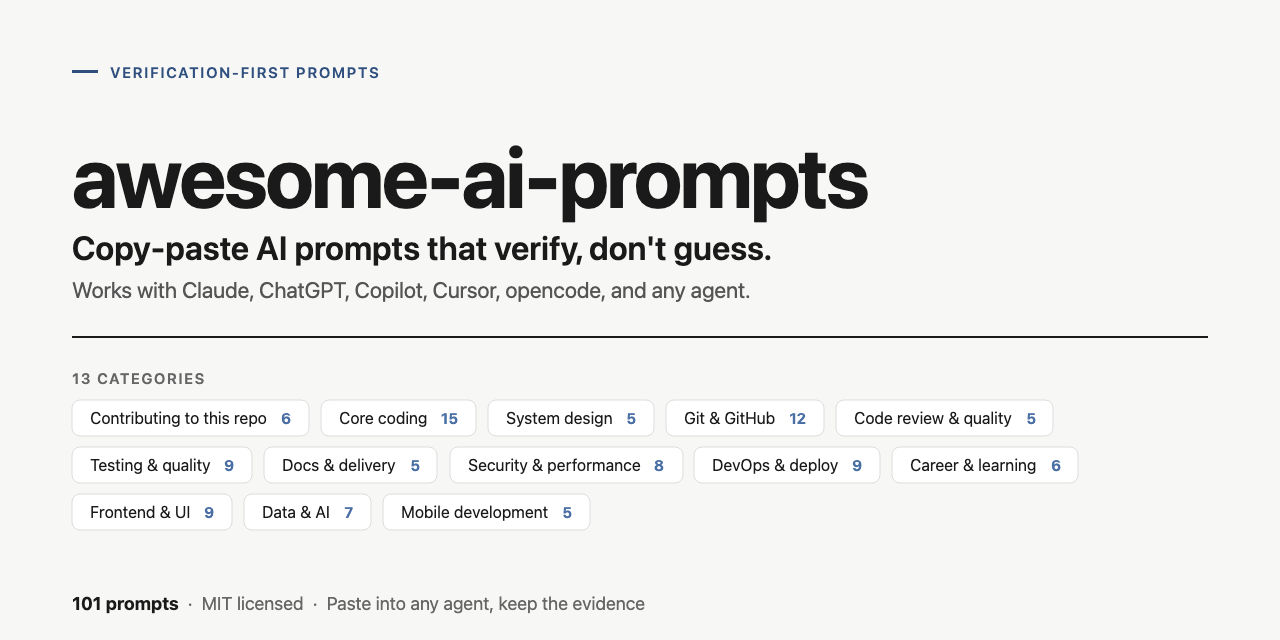
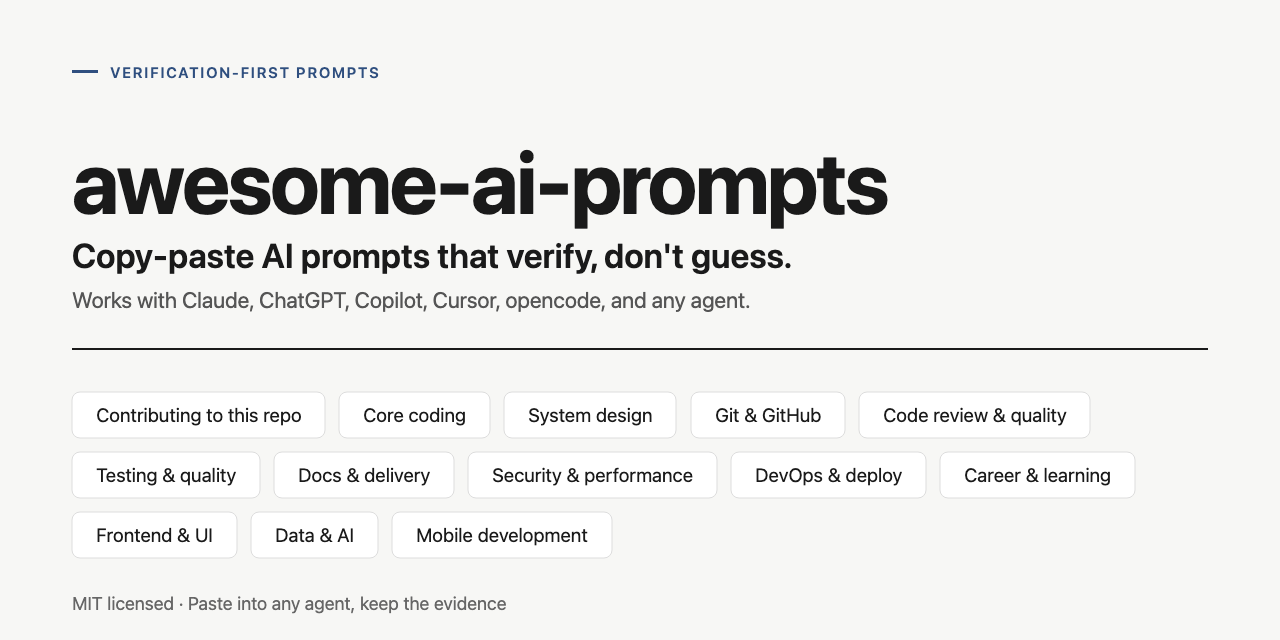
design: drop the counts from the social preview
The card advertised "101 prompts", "13 CATEGORIES", and a number in every
category pill. Every one of those is a snapshot that goes stale the next
time someone opens a pull request, and a card claiming 98 prompts when the
repo holds 101 is worse than a card that never claimed a figure. Nothing
quantitative is left on it.

The names are all that can still drift, and only when a category is added
or renamed, so the generator now checks them both ways: every name must be
a ## heading in README.md, and the number of names must equal the number
of tracked category folders. Both read through git ls-files, so gitignored
scratch dirs like drafts/ and tmp/ cannot move the answer.

With the counts gone the pills carry only a name and have the full width to
spend, so they are drawn larger: 19px in 46px pills against 16px in 36px.
The grid is now centered in the space between the header rule and the
footer rather than pinned to a guessed y, so a rename that changes the
wrap count still lands deliberately.

Two consequences the palette check enforced rather than let slide. #4a6fa5
existed only for the pill counts, so the palette drops from eight colors to
seven and the card keeps a single deliberate accent in #2f4f7f. And the
verifier now fails on any digit in any text run, so a count cannot creep
back in unnoticed.

Verified on the rendered PNG: no digit anywhere on the card, all 501
distinct colors are blends of the seven declared entries, 18 text runs
[…]

diff --git a/assets/README.md b/assets/README.md
@@ -7,37 +7,60 @@ Design sources that are not part of the prompt catalog.
 - `social-preview.svg` - the editable source (1280x640, GitHub's required size)
 - `social-preview.png` - the rendered file to upload
 
-`social-preview.png` is the image to set as the repository's social preview:
-**Settings > General > Social preview > Upload an image**. That upload is a
-manual step in the GitHub UI, so it cannot be done from a commit.
+`social-preview.png` is the image to set as the repository's social preview.
+Per [GitHub's docs](https://docs.github.com/en/repositories/managing-your-repositorys-settings-and-features/customizing-your-repository/customizing-your-repositorys-social-media-preview),
+that means: open the repository, click **Settings** under the repo name, scroll
+to **Social preview**, click **Edit**, then **Upload an image...**. That upload
+is a manual step in the GitHub UI, so it cannot be done from a commit. GitHub
+accepts a PNG, JPG, or GIF under 1 MB and recommends 1280x640, which is what
+this is.
 
 To change the image, edit the SVG and re-render it to PNG. Keep it at
-1280x640. The counts and category names in the SVG are a snapshot: if a
-category is added or renamed, update the labels to match `README.md` so the
-card does not advertise a catalog that has moved on.
+1280x640, then re-upload it.
+
+## No numbers on the card
+
+The card states no counts: no per-category numbers in the pills, no
+"13 CATEGORIES" label, no prompt total in the footer. This is deliberate, not
+an omission. A number on a social card is a snapshot that goes stale the moment
+someone opens a pull request, and a card advertising 98 prompts when the repo
+holds 101 is worse than a card that never claimed a figure. The names are the
+only thing left that can drift, and they only change when a category is added
+or renamed.
+
+Two consequences worth knowing:
+
+- Adding a prompt never requires re-rendering or re-uploading the card.
+- Adding, removing, or renaming a category does. Update the pill labels to
+  match the `##` headings in `README.md` and the number of category folders.
+
+## What is checked
 
 The card is checked by measurement, not by eye, so a re-render cannot silently
-regress: the title must stay inside the canvas, no label may overflow its pill,
-the category pills must not overlap, and every text run must clear WCAG AA
-contrast against the surface behind it. That last check is why two of the
-catalog's own grays are not used verbatim: `.toc .count` (`#888`) is 3.30:1 and
-`.prompt .meta` (`#777`) is 4.17:1 on the page background, both under the 4.5:1
-needed for body text, so the card uses `#555` and `#666` instead.
+regress. The title must stay inside the canvas, no label may overflow its pill,
+the category pills must not overlap, no digit may appear in any text run, and
+every text run must clear WCAG AA contrast against the surface behind it.
+
+That contrast check is why two of the catalog's own grays are not used verbatim:
+`.toc .count` (`#888`) is 3.30:1 and `.prompt .meta` (`#777`) is 4.17:1 on the
+page background, both under the 4.5:1 needed for body text, so the card uses
+`#555` and `#666` instead.
 
 Colors are taken from the CSS in `scripts/build-all.py` so the card reads as the
 same product as `ALL_PROMPTS.html`: the `#f7f7f5` page background, `#1a1a1a`
-ink, white cards with `#ddd` borders and 8px radii, and the `#2f4f7f` and
-`#4a6fa5` blue accents. The card is light throughout, and its palette is a
-closed set of eight colors. Three catalog colors are deliberately left out:
-`#7fb3df` (the `.spec` badge) is 2.23:1 and too light to set text in, and
-`#999`, `#111`, and `#333` have no role on a card this size.
+ink, white cards with `#ddd` borders and 8px radii, and the `#2f4f7f` blue
+accent. The card is light throughout, and its palette is a closed set of seven
+colors. Catalog colors deliberately left out: `#4a6fa5`, which was the
+pill-count color and has no role once the counts are gone; `#7fb3df` (the
+`.spec` badge), which is 2.23:1 and too light to set text in; and `#999`,
+`#111`, `#333`, and `#ccc`, which have no role on a card this size.
 
 Adding to or changing the palette means changing the card's whole color story,
 so check the two things that break silently:
 
-- Every color in the SVG must be one of those eight. A stray hex from an
-  experiment is the exact failure this card already had once, when it shipped
-  blue-on-navy against a page that is neither.
-- Every text run must clear its WCAG AA threshold against the surface behind
-  it. That check is why the card uses `#555` and `#666` for secondary text
-  rather than the catalog's own `#888` and `#777`.
+- Every color in the SVG must be one of those seven, and every one of the seven
+  must actually appear. A stray hex from an experiment is the exact failure this
+  card already had once, when it shipped blue-on-navy against a page that is
+  neither. A declared-but-unused color is the harmless version of the same
+  drift, and is worth catching too.
+- Every text run must clear its WCAG AA threshold against the surface behind it.

diff --git a/CHANGELOG.md b/CHANGELOG.md
@@ -35,8 +35,15 @@ Versioning follows [Semantic Versioning](https://semver.org/spec/v2.0.0.html).
   white cards with `#ddd` borders, and the `#2f4f7f` / `#4a6fa5` blue accents,
   replacing a blue-on-navy treatment that matched nothing else in the repo. The
   dark monospace prompt block is gone, and the palette is now a closed set of
-  eight catalog colors; `#888` and `#777` are not used because they fall under
+  seven catalog colors; `#888` and `#777` are not used because they fall under
   4.5:1 contrast on that background
+- `assets/social-preview.*` - the card now carries no numbers: no per-category
+  counts in the pills, no category-count label, no prompt total in the footer.
+  A figure on a social card is a snapshot that goes stale on the next pull
+  request, so the names are all that remain. Adding a prompt no longer requires
+  re-rendering or re-uploading the card; adding or renaming a category still
+  does, and the generator checks the names against the `README.md` headings and
+  the tracked category folders so a drift is caught at build time
 - `scripts/check-consistency.sh` - `assets/` is now excluded from the
   "every folder needs a README section" rule, since it holds design sources
   rather than prompts
